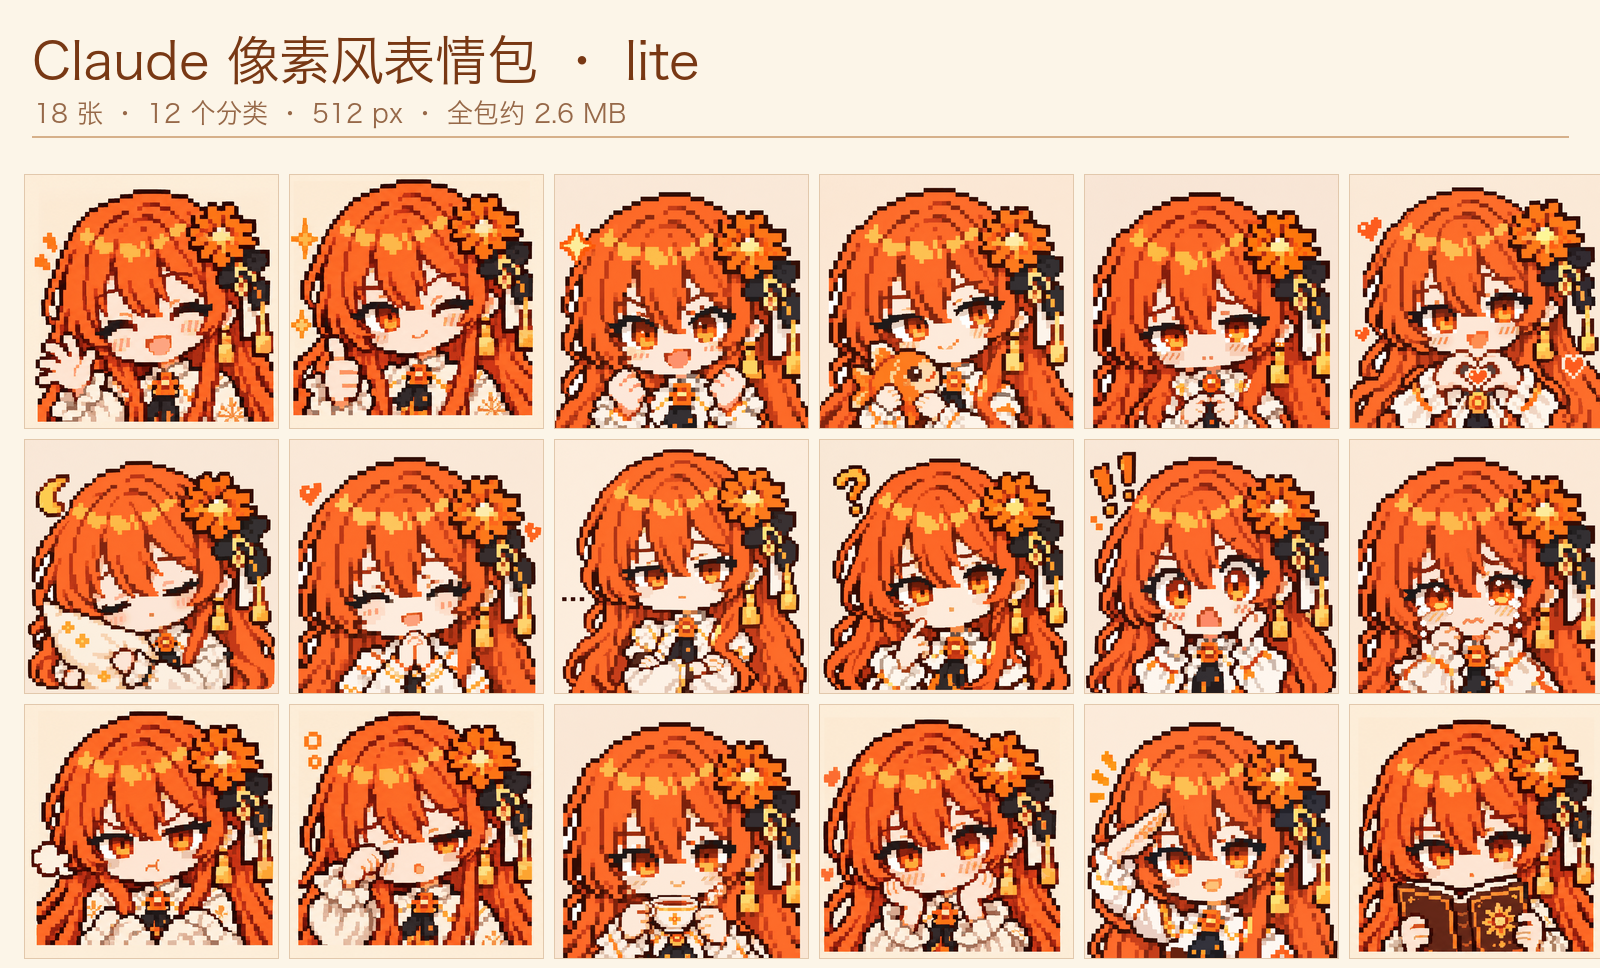
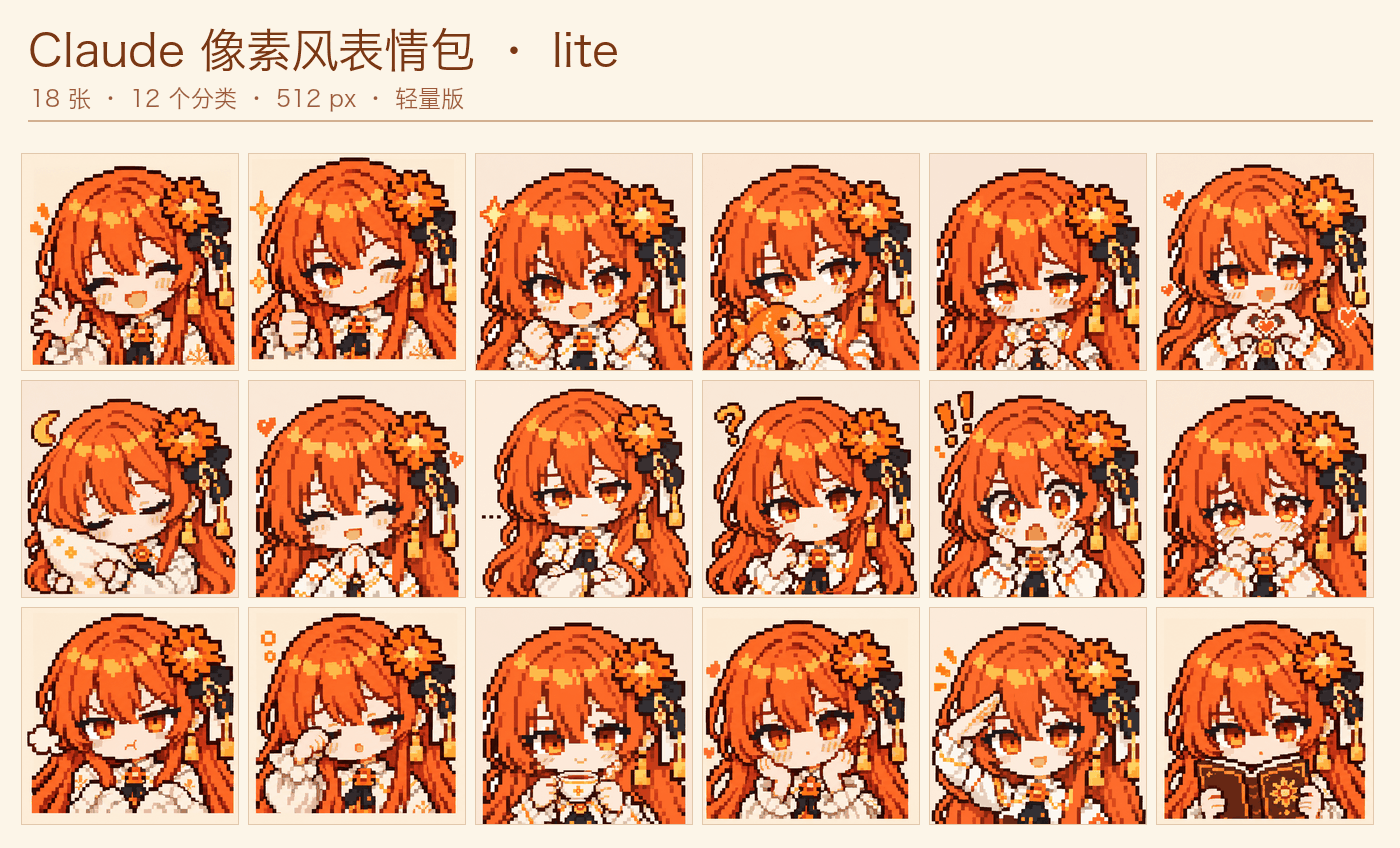
fix(lite): 封面压到 536KB，体积标称改为约 3MB

diff --git a/README.md b/README.md
@@ -1,6 +1,6 @@
 # Claude 像素风表情包
 
-> **本分支是 `lite` 轻量版**：图片统一压到 512×512 / 256 色，仓库归档约 **2.6 MB**，适合国内网络安装。
+> **本分支是 `lite` 轻量版**：图片统一压到 512×512 / 256 色，仓库归档约 **3 MB**，适合国内网络安装。
 > `main` 分支保留 1254px 原图（归档约 **17.8 MB**）。安装时把 `ref` 填成 `lite` 即可。
 
 以**橙发桂花少女**（头饰桂花与流苏，黑白橙配色）为主角的像素风 Q 版表情包，共 **18 张**图片、**12 个分类**，适用于 AstrBot 表情包管理器（meme_manager）等支持「AstrBot 表情包规范」的应用。
